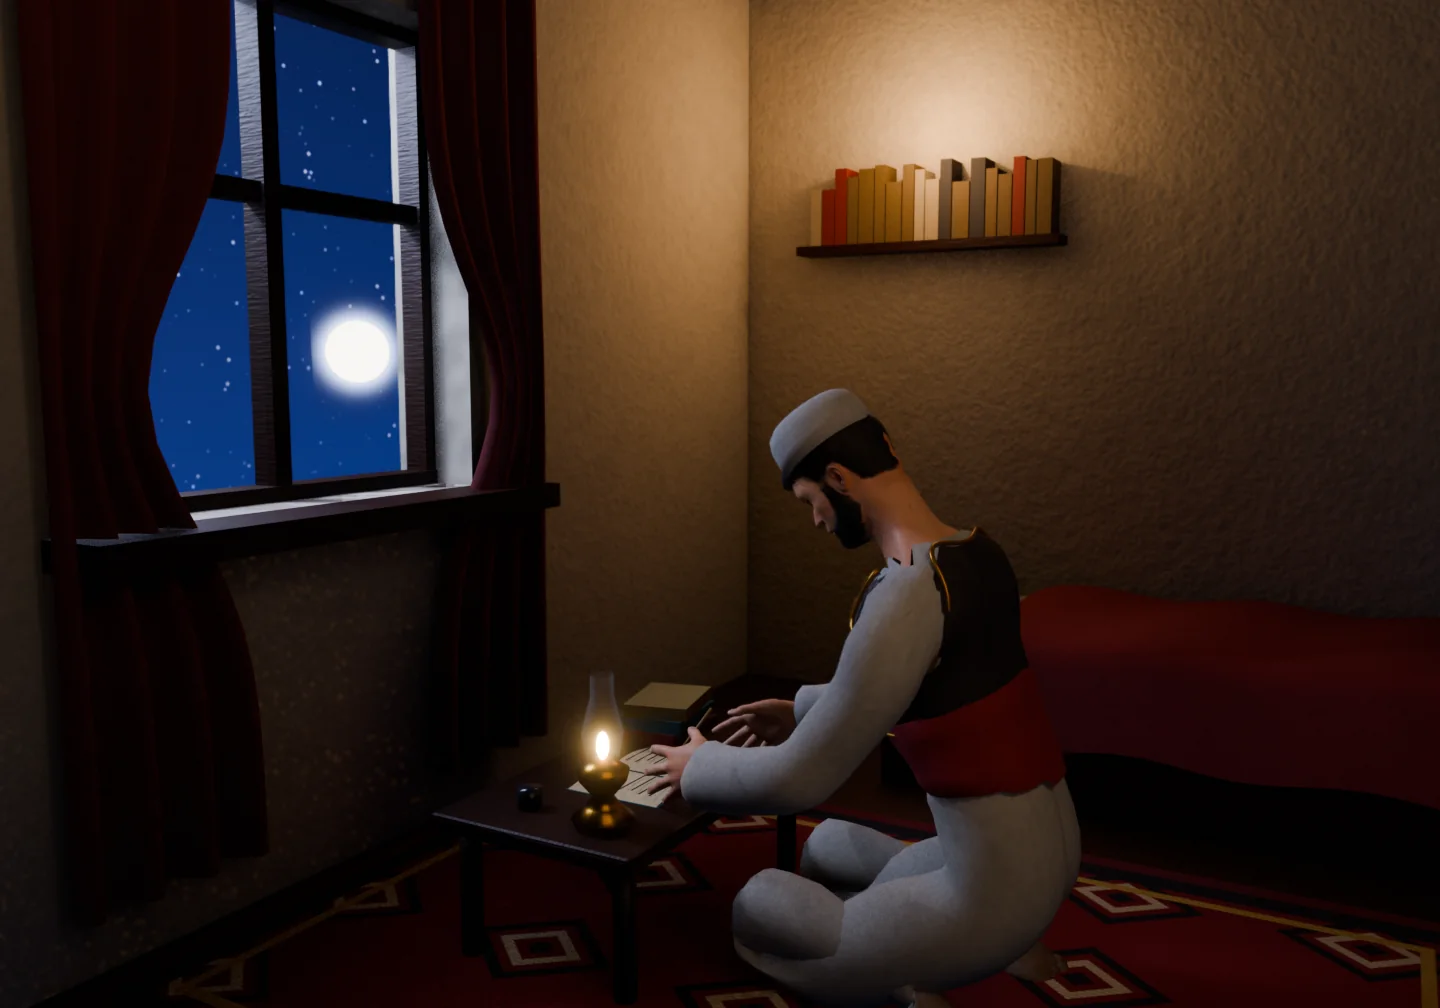
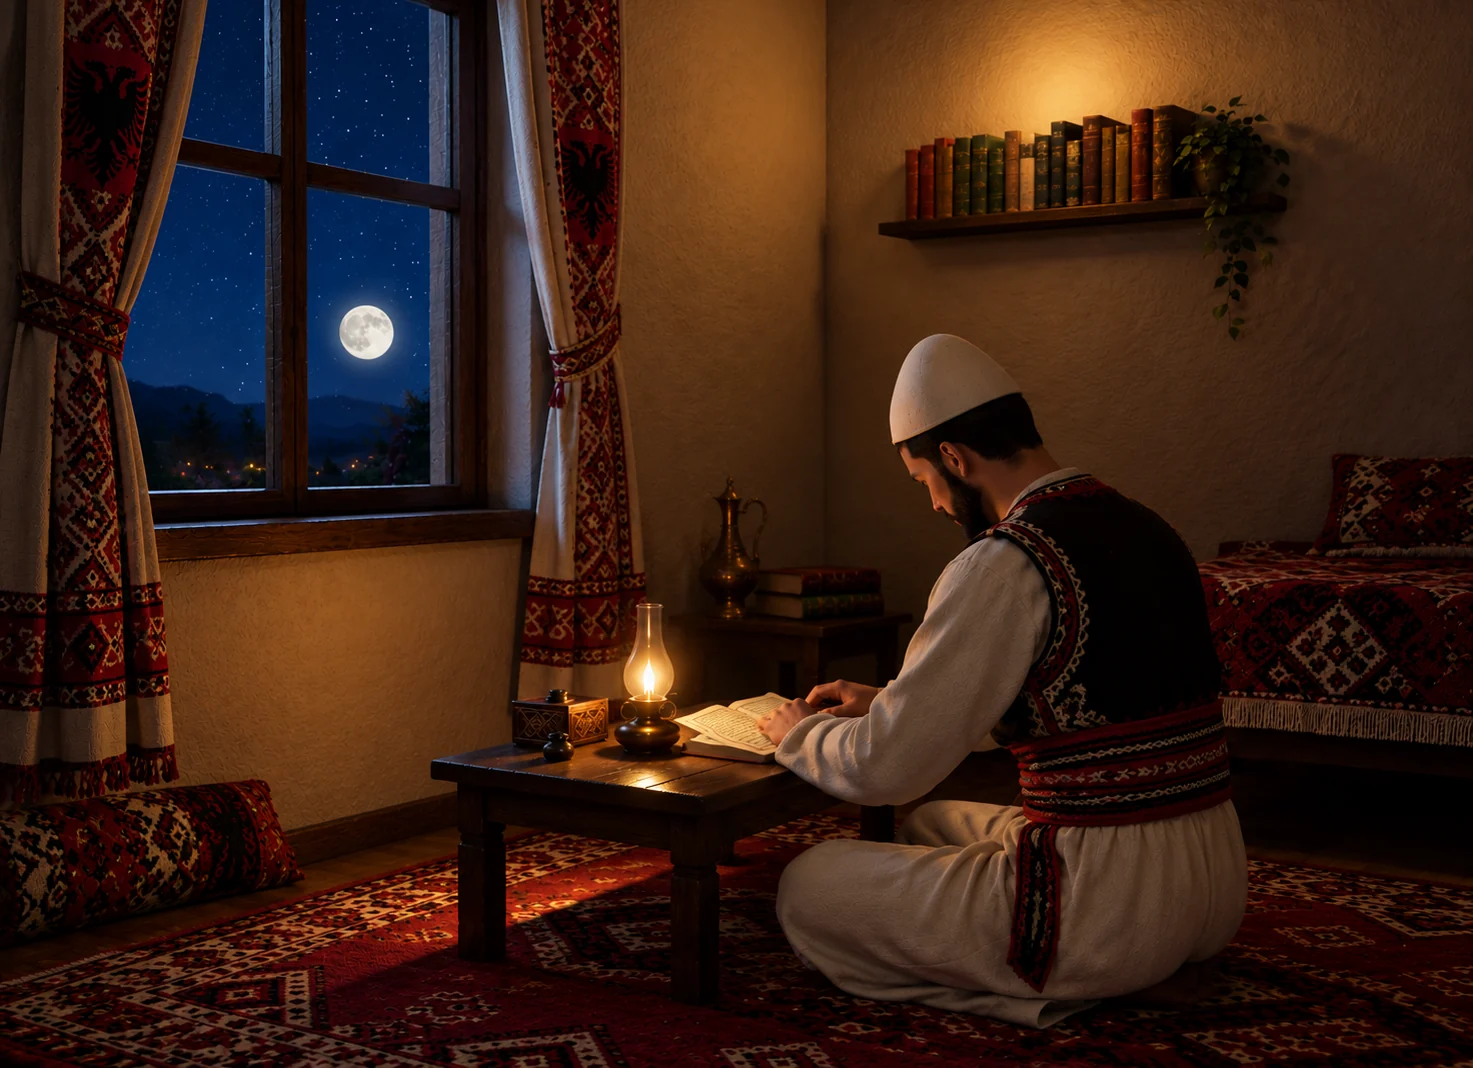
Tools: owner's picture for 'Shkrimi me dorë, në qetësinë e natës'

diff --git a/nl/meso.html b/nl/meso.html
@@ -80,7 +80,7 @@
             <p>Je hebt drie dingen nodig:</p>
             <ol class="prep-need"><li><b>Een pen</b> die je fijn vindt.</li><li><b>Een schrift</b> alleen voor Arabisch en de Koran.</li><li><b>Een computer, laptop of tablet</b> (zoals een iPad) voor deze site. Een telefoon kan ook, maar dat raden we niet aan: je gebruikt je telefoon voor veel andere dingen, dus raak je snel afgeleid.</li></ol>
             <p>Met de hand schrijven helpt je geheugen: een letter die je zelf hebt geschreven, onthoud je langer en herken je sneller als je haar weer ziet.</p>
-            <figure class="night-desk"><img src="../img/shkrimi-nate.webp" alt="Een man met een plis schrijft 's nachts in zijn schrift, in een warme kamer, met de maan en de sterren in het raam" width="1440" height="1008" loading="lazy"><figcaption>Met de hand schrijven, in de stilte van de nacht</figcaption></figure>
+            <figure class="night-desk"><img src="../img/shkrimi-nate.webp" alt="Een man met een plis schrijft 's nachts in zijn schrift, in een warme kamer, met de maan en de sterren in het raam" width="1473" height="1068" loading="lazy"><figcaption>Met de hand schrijven, in de stilte van de nacht</figcaption></figure>
             <p>Maak het mooi. Kies een schrift waar je blij van wordt elke keer dat je het pakt, en gebruik het alleen om de Koran te leren lezen. Als je je spullen mooi vindt, ga je met meer zin terug naar het leren.</p>
           </div>
           <figure class="nb-wrap" id="nbWrap">

diff --git a/de/meso.html b/de/meso.html
@@ -80,7 +80,7 @@
             <p>Du brauchst drei Dinge:</p>
             <ol class="prep-need"><li><b>Einen Stift</b>, den du magst.</li><li><b>Ein Heft</b> nur für Arabisch und den Koran.</li><li><b>Einen Computer, Laptop oder ein Tablet</b> (zum Beispiel ein iPad) für diese Seite. Ein Handy geht auch, aber wir raten davon ab: Du nutzt dein Handy für viele andere Dinge und lässt dich leicht ablenken.</li></ol>
             <p>Mit der Hand zu schreiben hilft dem Gedächtnis: Einen Buchstaben, den du selbst geschrieben hast, behältst du länger und erkennst ihn schneller wieder.</p>
-            <figure class="night-desk"><img src="../img/shkrimi-nate.webp" alt="Ein Mann mit Plis schreibt nachts in sein Heft, in einem warmen Zimmer, mit Mond und Sternen im Fenster" width="1440" height="1008" loading="lazy"><figcaption>Mit der Hand schreiben, in der Stille der Nacht</figcaption></figure>
+            <figure class="night-desk"><img src="../img/shkrimi-nate.webp" alt="Ein Mann mit Plis schreibt nachts in sein Heft, in einem warmen Zimmer, mit Mond und Sternen im Fenster" width="1473" height="1068" loading="lazy"><figcaption>Mit der Hand schreiben, in der Stille der Nacht</figcaption></figure>
             <p>Mach es schön. Wähle ein Heft, das dich jedes Mal freut, wenn du es in die Hand nimmst, und nutze es nur, um das Koranlesen zu lernen. Wenn dir dein Werkzeug gefällt, kehrst du lieber zum Lernen zurück.</p>
           </div>
           <figure class="nb-wrap" id="nbWrap">

diff --git a/meso.html b/meso.html
@@ -80,7 +80,7 @@
             <p>Të duhen tre gjëra:</p>
             <ol class="prep-need"><li><b>Një stilolaps</b> që të pëlqen.</li><li><b>Një fletore</b> vetëm për arabishten dhe Kuranin.</li><li><b>Një kompjuter, laptop ose tablet</b> (si iPad) për këtë faqe. Mund edhe me telefon, por nuk e këshillojmë: telefonin e përdor për shumë gjëra të tjera, dhe të shpërqendron lehtë.</li></ol>
             <p>Shkrimi me dorë i ndihmon kujtesës: shkronjën që e ke shkruar vetë e mban mend më gjatë dhe e njeh më shpejt kur e sheh sërish.</p>
-            <figure class="night-desk"><img src="img/shkrimi-nate.webp" alt="Një burrë me plis shkruan në fletore natën, në një dhomë të ngrohtë, me hënën dhe yjet në dritare" width="1440" height="1008" loading="lazy"><figcaption>Shkrimi me dorë, në qetësinë e natës</figcaption></figure>
+            <figure class="night-desk"><img src="img/shkrimi-nate.webp" alt="Një burrë me plis shkruan në fletore natën, në një dhomë të ngrohtë, me hënën dhe yjet në dritare" width="1473" height="1068" loading="lazy"><figcaption>Shkrimi me dorë, në qetësinë e natës</figcaption></figure>
             <p>Bëje të bukur. Zgjidh një fletore që të gëzon sa herë e merr në dorë, dhe mbaje vetëm për të mësuar leximin e Kuranit. Kur mjetet të pëlqejnë, kthehesh më me dëshirë te mësimi.</p>
           </div>
           <figure class="nb-wrap" id="nbWrap">

diff --git a/en/meso.html b/en/meso.html
@@ -80,7 +80,7 @@
             <p>You need three things:</p>
             <ol class="prep-need"><li><b>A pen</b> you like.</li><li><b>A notebook</b> just for Arabic and the Quran.</li><li><b>A computer, laptop or tablet</b> (like an iPad) for this site. A phone also works, but we don't advise it: you use your phone for many other things, so it distracts you easily.</li></ol>
             <p>Writing by hand helps your memory: a letter you have written yourself stays with you longer, and you recognise it faster when you see it again.</p>
-            <figure class="night-desk"><img src="../img/shkrimi-nate.webp" alt="A man in a plis writes in his notebook at night, in a warm room, with the moon and stars in the window" width="1440" height="1008" loading="lazy"><figcaption>Writing by hand, in the quiet of the night</figcaption></figure>
+            <figure class="night-desk"><img src="../img/shkrimi-nate.webp" alt="A man in a plis writes in his notebook at night, in a warm room, with the moon and stars in the window" width="1473" height="1068" loading="lazy"><figcaption>Writing by hand, in the quiet of the night</figcaption></figure>
             <p>Make it beautiful. Choose a notebook that makes you happy every time you pick it up, and keep it only for learning to read the Quran. When you like your tools, you come back to learning more gladly.</p>
           </div>
           <figure class="nb-wrap" id="nbWrap">
